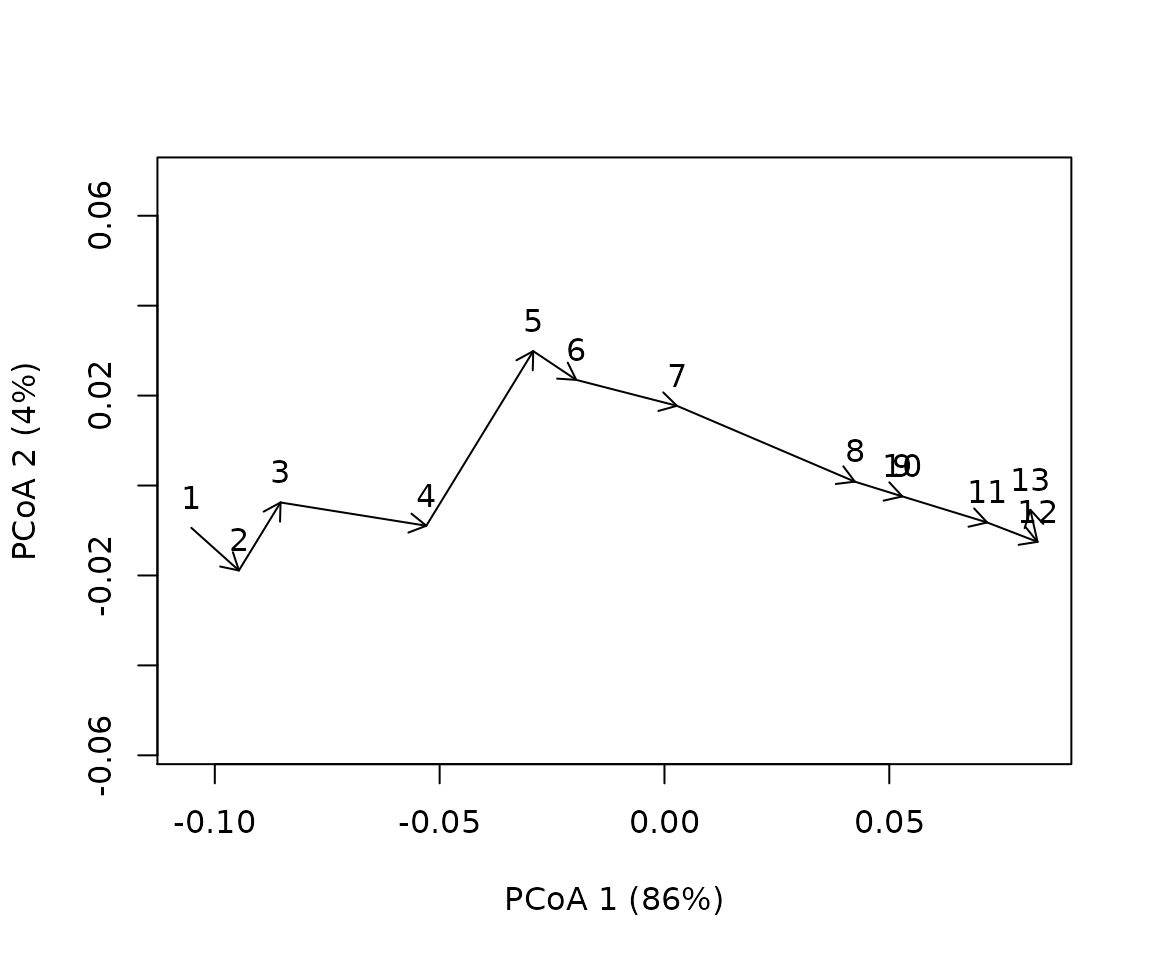
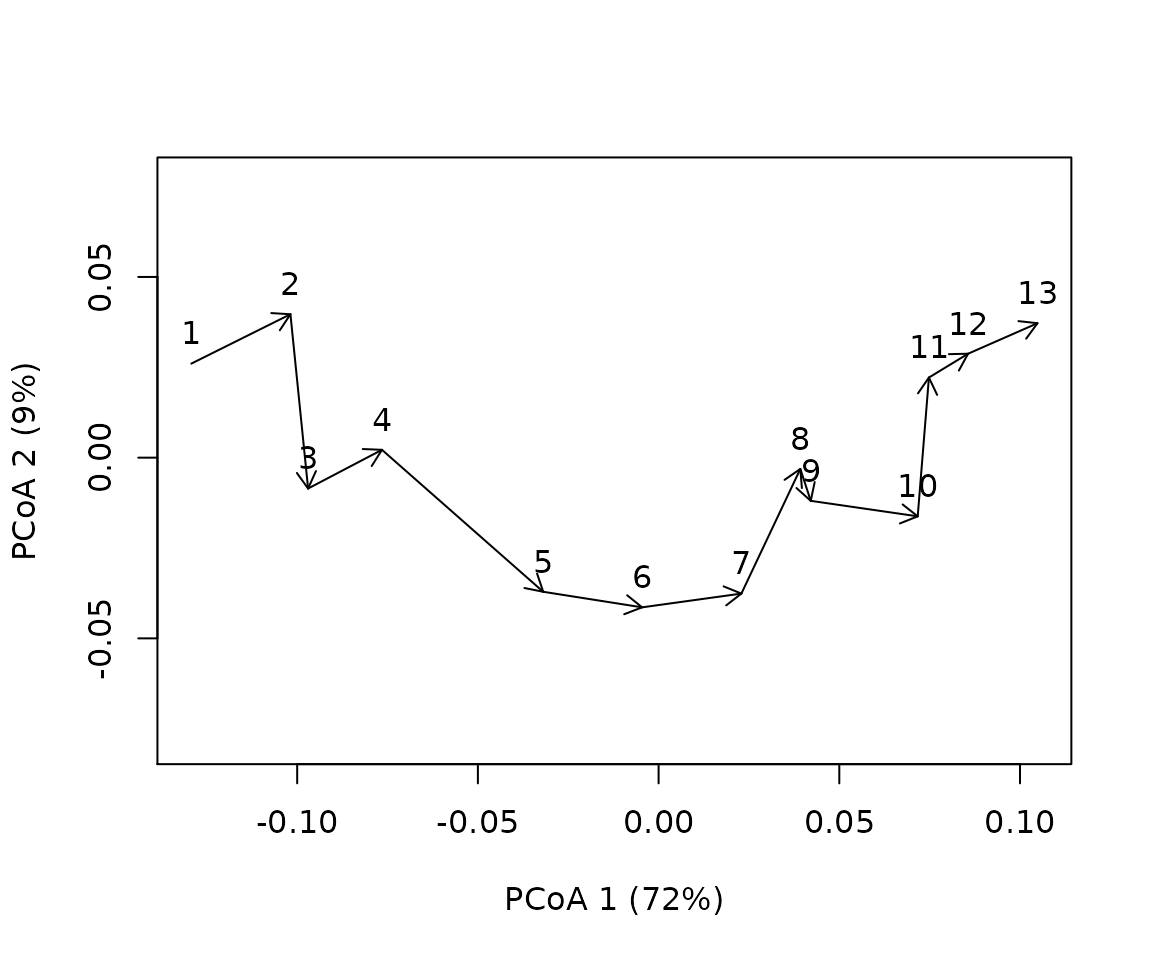
split vignettes

diff --git a/docs/articles/Transformation.html b/docs/articles/Transformation.html
@@ -226,45 +226,37 @@
 <p>In this more complex trajectory, some triangles may not obey the triangle inequality (depending on the simulation). This can be inspected using function <code>is.metric</code>:</p>
 <div class="sourceCode" id="cb39"><pre class="downlit sourceCode r">
 <code class="sourceCode R"><span class="fu"><a href="../reference/trajectories.html">is.metric</a></span><span class="op">(</span><span class="va">D</span>, tol<span class="op">=</span><span class="fl">0.0000001</span><span class="op">)</span></code></pre></div>
-<pre><code>## [1] FALSE</code></pre>
+<pre><code>## [1] TRUE</code></pre>
 <p>Deviations from a metric space, if they exist, will be small, so that local transformation of triangles will be very small.</p>
 <p>Local transformations are not possible to display trajectories. When we plot the trajectory using function <code>trajectoryPCoA</code> the global transformation of principal coordinates analysis (PCoA) with negative eigenvalue correction is performed. This is fine to display trajectories, but has problems when measuring angular properties, as we will see.</p>
 <div class="sourceCode" id="cb41"><pre class="downlit sourceCode r">
 <code class="sourceCode R"><span class="va">pcoa</span><span class="op">&lt;-</span><span class="fu"><a href="../reference/trajectories.html">trajectoryPCoA</a></span><span class="op">(</span><span class="va">D</span>, <span class="va">sites</span>, <span class="va">surveys</span>, selection<span class="op">=</span><span class="fl">1</span>,length<span class="op">=</span><span class="fl">0.1</span>, axes<span class="op">=</span><span class="fu"><a href="https://rdrr.io/r/base/c.html">c</a></span><span class="op">(</span><span class="fl">1</span>,<span class="fl">2</span><span class="op">)</span>, survey.labels <span class="op">=</span> <span class="cn">T</span><span class="op">)</span></code></pre></div>
-<pre><code>## Warning in arrows(x[niini], y[niini], x[nifin], y[nifin], ...): zero-length
-## arrow is of indeterminate angle and so skipped</code></pre>
 <p><img src="Transformation_files/figure-html/unnamed-chunk-14-1.png" width="576" style="display: block; margin: auto;"></p>
-<div class="sourceCode" id="cb43"><pre class="downlit sourceCode r">
+<div class="sourceCode" id="cb42"><pre class="downlit sourceCode r">
 <code class="sourceCode R"><span class="va">pcoaD</span> <span class="op">=</span> <span class="fu"><a href="https://rdrr.io/r/stats/dist.html">dist</a></span><span class="op">(</span><span class="va">pcoa</span><span class="op">$</span><span class="va">points</span><span class="op">)</span></code></pre></div>
 <p>The trajectory has some twists derived from stochasticity in death and recruitment. Let’s now look at the square root of the Bray-Curtis dissimilarity:</p>
-<div class="sourceCode" id="cb44"><pre class="downlit sourceCode r">
+<div class="sourceCode" id="cb43"><pre class="downlit sourceCode r">
 <code class="sourceCode R"><span class="va">sqrtD</span> <span class="op">=</span> <span class="fu"><a href="https://rdrr.io/r/base/MathFun.html">sqrt</a></span><span class="op">(</span><span class="va">D</span><span class="op">)</span>
 <span class="va">pcoaSqrt</span> <span class="op">=</span> <span class="fu"><a href="../reference/trajectories.html">trajectoryPCoA</a></span><span class="op">(</span><span class="va">sqrtD</span>, <span class="va">sites</span>, <span class="va">surveys</span>, selection<span class="op">=</span><span class="fl">1</span>,length<span class="op">=</span><span class="fl">0.1</span>, axes<span class="op">=</span><span class="fu"><a href="https://rdrr.io/r/base/c.html">c</a></span><span class="op">(</span><span class="fl">1</span>,<span class="fl">2</span><span class="op">)</span>, survey.labels <span class="op">=</span> <span class="cn">T</span><span class="op">)</span></code></pre></div>
-<pre><code>## Warning in cmdscale(D2, eig = TRUE, add = TRUE, k = nrow(as.matrix(D2)) - : only
-## 11 of the first 12 eigenvalues are &gt; 0</code></pre>
-<pre><code>## Warning in arrows(x[niini], y[niini], x[nifin], y[nifin], ...): zero-length
-## arrow is of indeterminate angle and so skipped</code></pre>
 <p><img src="Transformation_files/figure-html/unnamed-chunk-15-1.png" width="576" style="display: block; margin: auto;"></p>
 <p>Finally, we also transform dissimilarities using metric multidimensional scaling (mMDS), provided by package <code>smacof</code>:</p>
-<div class="sourceCode" id="cb47"><pre class="downlit sourceCode r">
+<div class="sourceCode" id="cb44"><pre class="downlit sourceCode r">
 <code class="sourceCode R"><span class="va">res</span> <span class="op">&lt;-</span> <span class="fu"><a href="https://rdrr.io/pkg/smacof/man/smacofSym.html">mds</a></span><span class="op">(</span><span class="va">D</span>, ndim <span class="op">=</span> <span class="fu"><a href="https://rdrr.io/r/base/length.html">length</a></span><span class="op">(</span><span class="va">Sj</span><span class="op">)</span><span class="op">-</span><span class="fl">1</span>, type <span class="op">=</span> <span class="st">"interval"</span><span class="op">)</span>
 <span class="va">mmdsD</span> <span class="op">&lt;-</span> <span class="fu"><a href="https://rdrr.io/r/stats/dist.html">dist</a></span><span class="op">(</span><span class="va">res</span><span class="op">$</span><span class="va">conf</span><span class="op">)</span>
 <span class="fu"><a href="../reference/trajectories.html">trajectoryPlot</a></span><span class="op">(</span><span class="va">res</span><span class="op">$</span><span class="va">conf</span>, <span class="va">sites</span>, <span class="va">surveys</span>, selection<span class="op">=</span><span class="fl">1</span>,length<span class="op">=</span><span class="fl">0.1</span>, axes<span class="op">=</span><span class="fu"><a href="https://rdrr.io/r/base/c.html">c</a></span><span class="op">(</span><span class="fl">1</span>,<span class="fl">2</span><span class="op">)</span>, survey.labels <span class="op">=</span> <span class="cn">T</span><span class="op">)</span></code></pre></div>
-<pre><code>## Warning in arrows(xp[niini], yp[niini], xp[nifin], yp[nifin], ...): zero-length
-## arrow is of indeterminate angle and so skipped</code></pre>
 <p><img src="Transformation_files/figure-html/unnamed-chunk-16-1.png" width="576" style="display: block; margin: auto;"></p>
 <p>While the three plots look different, the differences are not striking (besides rotation issues). We can compare the stress of the global solutions:</p>
-<div class="sourceCode" id="cb49"><pre class="downlit sourceCode r">
+<div class="sourceCode" id="cb45"><pre class="downlit sourceCode r">
 <code class="sourceCode R"><span class="fu"><a href="https://rdrr.io/pkg/smacof/man/stress0.html">stress0</a></span><span class="op">(</span><span class="va">D</span>,<span class="va">pcoaSqrt</span><span class="op">$</span><span class="va">points</span>, type<span class="op">=</span><span class="st">"interval"</span><span class="op">)</span></code></pre></div>
-<pre><code>## [1] 0.07432914</code></pre>
-<div class="sourceCode" id="cb51"><pre class="downlit sourceCode r">
+<pre><code>## [1] 0.05518521</code></pre>
+<div class="sourceCode" id="cb47"><pre class="downlit sourceCode r">
 <code class="sourceCode R"><span class="fu"><a href="https://rdrr.io/pkg/smacof/man/stress0.html">stress0</a></span><span class="op">(</span><span class="va">D</span>,<span class="va">pcoa</span><span class="op">$</span><span class="va">points</span>, type<span class="op">=</span><span class="st">"interval"</span><span class="op">)</span></code></pre></div>
-<pre><code>## [1] 0.004033267</code></pre>
-<div class="sourceCode" id="cb53"><pre class="downlit sourceCode r">
+<pre><code>## [1] 0.0150955</code></pre>
+<div class="sourceCode" id="cb49"><pre class="downlit sourceCode r">
 <code class="sourceCode R"><span class="fu"><a href="https://rdrr.io/pkg/smacof/man/stress0.html">stress0</a></span><span class="op">(</span><span class="va">D</span>,<span class="va">res</span><span class="op">$</span><span class="va">conf</span>, type<span class="op">=</span><span class="st">"interval"</span><span class="op">)</span></code></pre></div>
-<pre><code>## [1] 0.01024268</code></pre>
+<pre><code>## [1] 0.01724233</code></pre>
 <p>Where we see that the square root leads to the strongest alteration of original dissimilarities. If we calculate geometric properties we are not limited by ordination plots and we can take into account all dimensions.</p>
-<div class="sourceCode" id="cb55"><pre class="downlit sourceCode r">
+<div class="sourceCode" id="cb51"><pre class="downlit sourceCode r">
 <code class="sourceCode R"><span class="va">anglesD</span> <span class="op">=</span> <span class="fu"><a href="../reference/trajectories.html">trajectoryAngles</a></span><span class="op">(</span><span class="va">D</span>,<span class="va">sites</span>,<span class="va">surveys</span><span class="op">)</span>
 <span class="va">anglesSqrtD</span> <span class="op">=</span> <span class="fu"><a href="../reference/trajectories.html">trajectoryAngles</a></span><span class="op">(</span><span class="va">sqrtD</span>,<span class="va">sites</span>,<span class="va">surveys</span><span class="op">)</span>
 <span class="va">anglesPcoaD</span> <span class="op">=</span> <span class="fu"><a href="../reference/trajectories.html">trajectoryAngles</a></span><span class="op">(</span><span class="va">pcoaD</span>,<span class="va">sites</span>,<span class="va">surveys</span><span class="op">)</span>
@@ -273,34 +265,34 @@
 <span class="va">df</span><span class="op">&lt;-</span><span class="fu"><a href="https://rdrr.io/r/base/as.data.frame.html">as.data.frame</a></span><span class="op">(</span><span class="fu"><a href="https://rdrr.io/r/base/cbind.html">rbind</a></span><span class="op">(</span><span class="va">anglesD</span>, <span class="va">anglesSqrtD</span>, <span class="va">anglesPcoaD</span>, <span class="va">anglesmmdsD</span><span class="op">)</span><span class="op">)</span>
 <span class="fu"><a href="https://rdrr.io/r/base/row.names.html">row.names</a></span><span class="op">(</span><span class="va">df</span><span class="op">)</span><span class="op">&lt;-</span><span class="fu"><a href="https://rdrr.io/r/base/c.html">c</a></span><span class="op">(</span><span class="st">"local"</span>, <span class="st">"global.sqrt"</span>, <span class="st">"global.pcoa"</span>, <span class="st">"global.mmds"</span><span class="op">)</span>
 <span class="fu"><a href="https://rdrr.io/r/base/Round.html">round</a></span><span class="op">(</span><span class="va">df</span>,<span class="fl">2</span><span class="op">)</span></code></pre></div>
-<pre><code>##              S1-S2  S2-S3  S3-S4  S4-S5 S5-S6 S6-S7 S7-S8  S8-S9 S9-S10 S10-S11
-## local       120.00  75.52  90.00  97.18  0.00  7.14  0.00    NaN    NaN   99.59
-## global.sqrt 120.00 101.78 106.78 104.48 90.00 90.11 89.92    NaN    NaN  106.78
-## global.pcoa 120.00  96.14 100.87 104.01 88.13 74.97 82.93 108.88 100.94  107.05
-## global.mmds 126.98  86.26  88.48  95.99 56.99 33.04 45.37 118.03 104.86   95.62
-##             S11-S12  mean   sd  rho
-## local          0.00 55.05 0.90 0.67
-## global.sqrt   90.00 99.96 0.18 0.98
-## global.pcoa   84.48 97.13 0.22 0.98
-## global.mmds   65.26 83.69 0.50 0.88</code></pre>
+<pre><code>##              S1-S2  S2-S3  S3-S4 S4-S5 S5-S6 S6-S7  S7-S8 S8-S9 S9-S10 S10-S11
+## local        75.52  82.82  71.79  0.00  0.00  0.00 104.48  0.00 120.00   99.59
+## global.sqrt 101.78 104.48 100.18 90.00 90.00 90.00 110.70 90.00 120.00  106.78
+## global.pcoa 105.57 109.50 102.63 92.12 98.26 98.26 115.01 99.88 120.00  111.49
+## global.mmds  93.60 100.11  76.69 37.83 14.47 50.31 113.48 71.01 119.88   99.67
+##             S11-S12   mean   sd  rho
+## local          0.00  50.22 0.88 0.68
+## global.sqrt   90.00  99.42 0.17 0.99
+## global.pcoa  103.07 105.06 0.14 0.99
+## global.mmds   13.36  72.92 0.65 0.81</code></pre>
 <p>The first call to <code>trajectoryAngles</code> with matrix <code>D</code> represents the default strategy of transforming triangles locally, which involves the weakest transformation of all and can be taken as reference. Both the square root and PCoA with negative eigenvalue correction induce a strong transformation of trajectory angles. The global solution of metric MDS leads to angles that are more similar to those of the local transformation strategy.</p>
 <p>If we inspect the overall directionality, the global solution of metric MDS provides a value that is again closer to that of local transformation, compared to PCoA and the square root:</p>
-<div class="sourceCode" id="cb57"><pre class="downlit sourceCode r">
+<div class="sourceCode" id="cb53"><pre class="downlit sourceCode r">
 <code class="sourceCode R"><span class="fu"><a href="../reference/trajectories.html">trajectoryDirectionality</a></span><span class="op">(</span><span class="va">D</span>,<span class="va">sites</span>,<span class="va">surveys</span><span class="op">)</span></code></pre></div>
-<pre><code>##         1 
-## 0.8623431</code></pre>
-<div class="sourceCode" id="cb59"><pre class="downlit sourceCode r">
+<pre><code>##        1 
+## 0.848988</code></pre>
+<div class="sourceCode" id="cb55"><pre class="downlit sourceCode r">
 <code class="sourceCode R"><span class="fu"><a href="../reference/trajectories.html">trajectoryDirectionality</a></span><span class="op">(</span><span class="va">sqrtD</span>,<span class="va">sites</span>,<span class="va">surveys</span><span class="op">)</span></code></pre></div>
-<pre><code>##         1 
-## 0.4828534</code></pre>
-<div class="sourceCode" id="cb61"><pre class="downlit sourceCode r">
+<pre><code>##        1 
+## 0.481734</code></pre>
+<div class="sourceCode" id="cb57"><pre class="downlit sourceCode r">
 <code class="sourceCode R"><span class="fu"><a href="../reference/trajectories.html">trajectoryDirectionality</a></span><span class="op">(</span><span class="va">pcoaD</span>,<span class="va">sites</span>,<span class="va">surveys</span><span class="op">)</span></code></pre></div>
 <pre><code>##         1 
-## 0.6147034</code></pre>
-<div class="sourceCode" id="cb63"><pre class="downlit sourceCode r">
+## 0.5305668</code></pre>
+<div class="sourceCode" id="cb59"><pre class="downlit sourceCode r">
 <code class="sourceCode R"><span class="fu"><a href="../reference/trajectories.html">trajectoryDirectionality</a></span><span class="op">(</span><span class="va">mmdsD</span>,<span class="va">sites</span>,<span class="va">surveys</span><span class="op">)</span></code></pre></div>
 <pre><code>##         1 
-## 0.7447056</code></pre>
+## 0.7363335</code></pre>
 </div>
 <div id="conclusions" class="section level2">
 <h2 class="hasAnchor">
